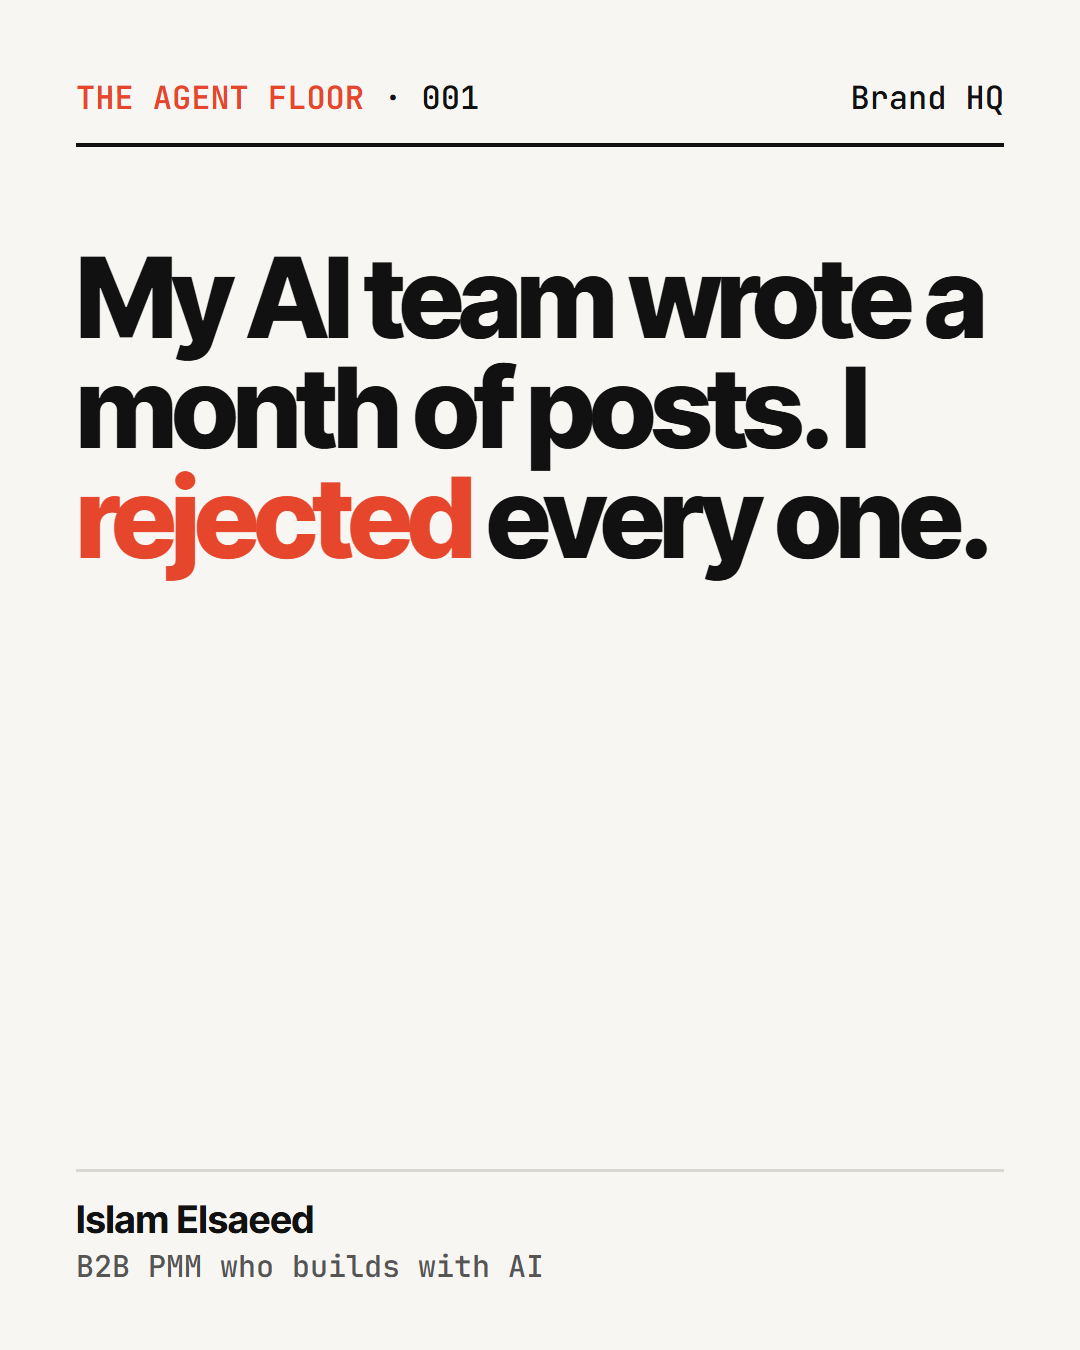
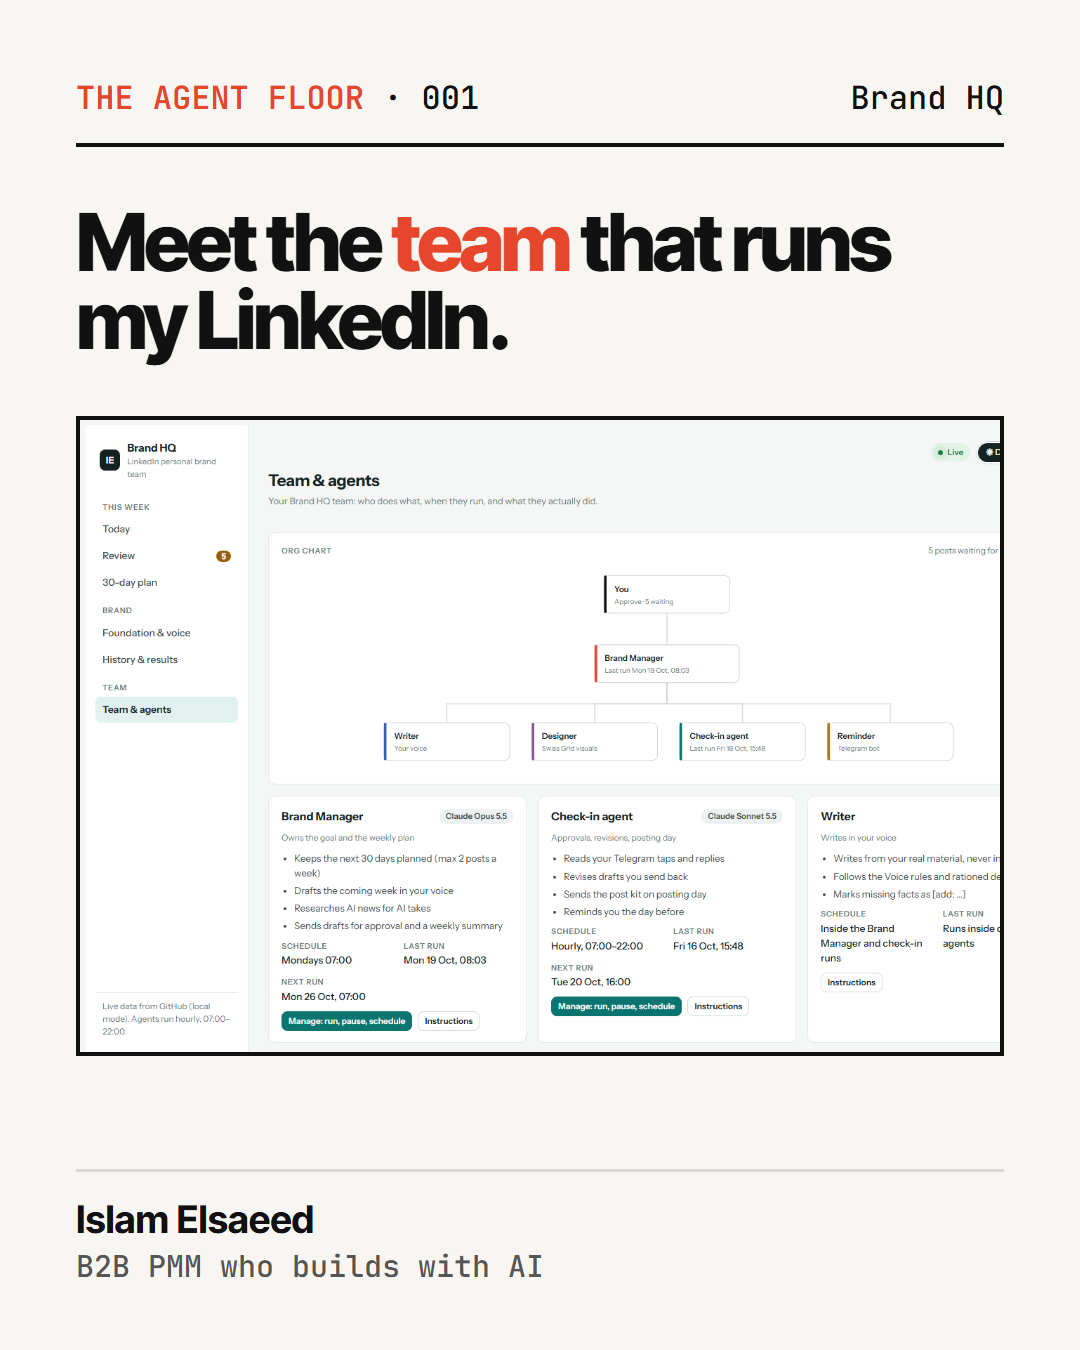
brand-hq: revise post 01 from Islam's feedback (team view, Notion, Telegram), new build-log visual

diff --git a/brand-hq/posts/2026-10-22-agent-floor-001-rejected-everything.md b/brand-hq/posts/2026-10-22-agent-floor-001-rejected-everything.md
@@ -6,46 +6,48 @@ pillar: Building with AI in public
 format: image
 series: THE AGENT FLOOR
 issue: "001"
-title: "I built an AI team to write my LinkedIn posts. Then I rejected everything it wrote."
+title: "Meet the team that runs my LinkedIn"
 visual_style: swiss-grid
 foundation: v1.0
-status: revising
+status: awaiting_review
 ---
 
 ## Why
-True story from this week, and the start of The Agent Floor series. Honest, specific and a little self-deprecating. It shows judgment, not just tooling.
+Your feedback: show how the team works (the Team window, Notion, Telegram) with a simple explanation. It opens The Agent Floor with the whole system in one picture.
 
 ## Post
-Last week I built an AI team to run my LinkedIn.
+Meet the team that runs my LinkedIn. Five members, one human approver.
 
-A Brand Manager that keeps the goal in view, a planner that always has the next month mapped out, a writer, a designer, and a Telegram bot that pings me when something needs my approval.
+Here's how it works, in plain terms.
 
-It worked. Four weeks of posts, fully drafted, within a day.
+The Brand Manager plans. Every Monday it looks at what I've posted and what's coming up, and keeps the next 30 days filled with two posts a week.
 
-And I rejected all of them.
+The Writer and the Designer do the work. The Writer drafts in my voice, from things I've actually done. The Designer turns each post into a visual in one consistent style.
 
-Nothing in them was wrong. They were just obviously written by AI. Every post ended on a neat one-liner. Every list had exactly three points. I could see the template behind each sentence, and if I could see it, so could everyone else.
+Notion is the shared desk. Every post lives there as one page with its text, its visual and its status. When I change a status, the team sees it.
 
-So I changed two things.
+Telegram is how they reach me. Drafts arrive on my phone with two buttons: approve, or send back with a comment. A check-in agent picks up my answer within the hour and revises the draft.
 
-The rules: my voice guide now bans the habits that gave it away, and any rhetorical trick is allowed once a month at most.
+Nothing goes out until I approve it.
 
-The input: the agents no longer write from a topic. They write from something I actually did or said. This post is the first one made that way.
+The screenshot is the team view of the small app I built around all this: who does what, when each agent last ran, and what it changed.
 
-Building the team took a few evenings. Teaching it to sound like me is the real work, and I suspect that's true for any team.
-
-This is the first post in a series about running marketing with AI agents: what works, what breaks, and what I'd do differently. I'm calling it The Agent Floor.
+This is the first post of The Agent Floor, a series about running marketing with AI agents, including the parts that don't work yet.
 
 ## First comment
-Where this started: a few weeks ago I watched one video about AI agents and opened my laptop. Earlier posts on the AI marketing team: [link]
+How it started: a few weeks ago I watched one video about AI agents and opened my laptop. The AI marketing team I built before this: [link]
 
 ## Visual
-template: cover
+template: buildlog
 series: THE AGENT FLOOR
 issue: 001
 context: Brand HQ
-headline: My AI team wrote a month of posts. I *rejected* every one.
+headline: Meet the *team* that runs my LinkedIn.
+screenshot: brand-hq/design/shots/brand-hq-team.png
 
 ## Feedback
 - 2026-10-20 13:50 UTC: I dont like this. if we want to show how I built an AI team that`s fine, but lets then use team and agents window to show hwo team work, how we use notion, connect with telegram and just an easy explaantion for what we do
 - 2026-10-20 13:50 UTC: I dont like this. if we want to show how I built an AI team that`s fine, but lets then use team and agents window to show hwo team work, how we use notion, connect with telegram and just an easy explaantion for what we do
+
+## Revision note
+- 2026-10-20 (v2, by Claude): rewritten from your feedback. It now shows the team view, Notion and Telegram, with a plain explanation. New build-log visual with a real screenshot of the Team page.
